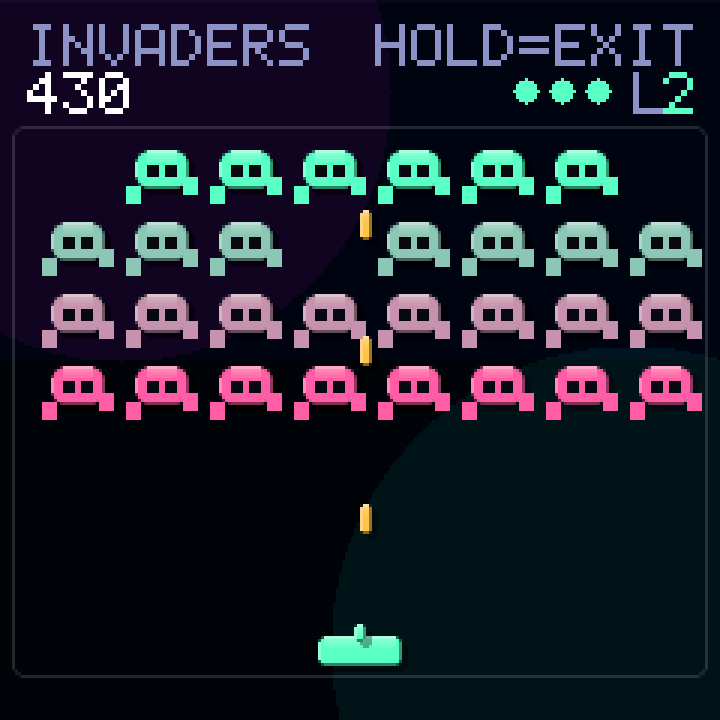
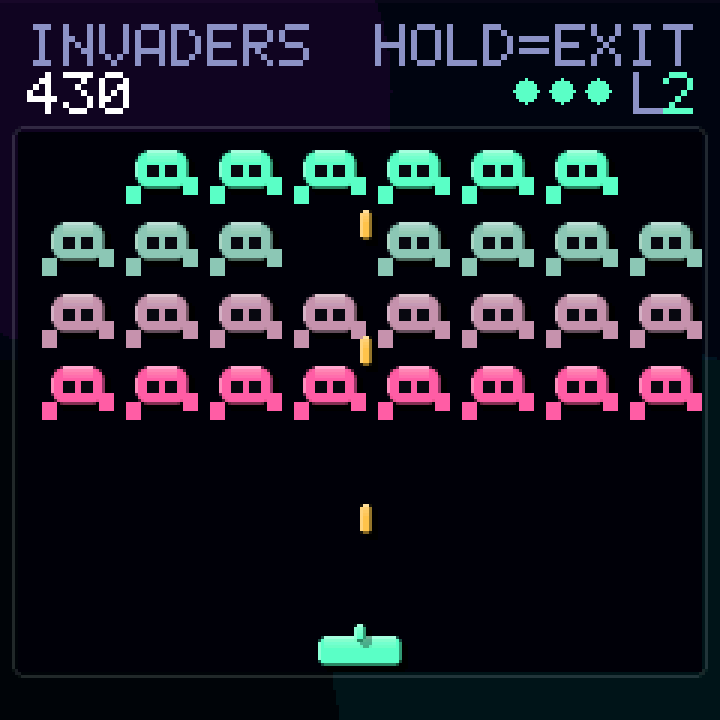
fix(N-02): playfields render flat
The ground is a gradient with two soft colour blobs behind it. That is right
for a dashboard and wrong behind a game: in Pong a blob edge crossed the court
and read as a tear in the image, and everywhere it did not tear it lowered
contrast on the things you are trying to track. Breakout and Invaders had no
field fill at all, so the raw ground showed through their entire playfield.

nexus_draw_field() paints it opaque - one helper, seven call sites. The
decoration keeps the ground, the cards, the menus and the game headers, and
stops at the field border.

Opaque rather than the band-level glow skip the plan suggests. That is
cheaper, and it was the first thing I tried: the fields are not the full width
of the panel, so the glow stops dead along the field's top edge and carries on
in the margin either side of it - a seam across the whole screen, one artifact
traded for a worse one.

So the frame cost claim in the ticket does not hold, and it is worth being
straight about: covering the ground costs an opaque fill where skipping it
would have saved a blended one. The five games that already had a translucent
fill get slightly cheaper (a blend becomes a store); Breakout and Invaders pay
about 40,000 opaque writes a frame, against the 57,600 the gradient already
costs every frame regardless. Nothing here is near the tick budget, but it is
an increase for two of the seven, not a reduction.

Tetris's draw_well() lost its last t-> use in the process, which would have
[…]

Changed region(s): [[0.0, 0.1833, 0.55, 0.5194], [0.7639, 0.4583, 0.9778, 0.5194]]

diff --git a/scripts/render_ui.py b/scripts/render_ui.py
@@ -361,6 +361,10 @@ class UI:
         self.cv.text(x + lw, y, num, BODY, self.t['accent'])
         return x
 
+    def field(self, x, y, w, h):
+        """nexus_draw_field(): flat and opaque, so no glow edge crosses it."""
+        self.cv.rect(x, y, w, h, self.t['track'], OPAQUE)
+
     def meter(self, x, y, w, h, pct, fill):
         r = h // 2
         self.cv.round_rect(x, y, w, h, r, self.t['track'], 190)
@@ -743,8 +747,7 @@ def tetris(cv, t):
     u.label(W - PAD - text_w('HOLD=EXIT', LABEL), 8, 'HOLD=EXIT')
 
     u.card(K['FRAME_X'], K['FRAME_Y'], K['FRAME_W'], K['FRAME_H'])
-    cv.rect(K['WELL_X'], K['WELL_Y'], 10 * K['CELL'], 20 * K['CELL'],
-            t['track'], 220)
+    u.field(K['WELL_X'], K['WELL_Y'], 10 * K['CELL'], 20 * K['CELL'])
 
     # a plausible stack plus a falling T
     stack = [
@@ -804,7 +807,7 @@ def snake(cv, t, body=None, food=(3, 12), score='120'):
 
     cv.round_frame(K['FRAME_X'], K['FRAME_Y'], K['FRAME_W'], K['FRAME_H'], 3,
                    t['border'], t['border_alpha'])
-    cv.rect(K['WELL_X'], K['WELL_Y'], K['WELL_W'], K['WELL_H'], t['track'], 120)
+    u.field(K['WELL_X'], K['WELL_Y'], K['WELL_W'], K['WELL_H'])
 
     for r, c in body:
         x = K['WELL_X'] + c * K['CELL']
@@ -845,6 +848,7 @@ def breakout(cv, t, ball=None, paddle=None, gone=None, score='340', lives=3):
     for i in range(lives):
         cv.disc(lx - 12 - i * 12, 30, 4, t['accent'])
 
+    u.field(K['FIELD_X'], K['FIELD_Y'], K['FIELD_W'], K['FIELD_H'])
     cv.round_frame(K['FIELD_X'] - 2, K['FIELD_Y'] - 2, K['FIELD_W'] + 4,
                    K['FIELD_H'] + 4, 3, t['border'], t['border_alpha'])
 
@@ -891,7 +895,7 @@ def pacman(cv, t, pac=(8, 6), pdir=1, ghosts=((4, 6), (3, 4), (6, 8)),
 
     cv.round_frame(K['FRAME_X'], K['FRAME_Y'], K['FRAME_W'], K['FRAME_H'], 3,
                    t['border'], t['border_alpha'])
-    cv.rect(K['WELL_X'], K['WELL_Y'], K['WELL_W'], K['WELL_H'], t['track'], 120)
+    u.field(K['WELL_X'], K['WELL_Y'], K['WELL_W'], K['WELL_H'])
 
     CELL = K['CELL']
     for r in range(K['ROWS']):
@@ -1003,7 +1007,7 @@ def jumper(cv, t, player=(7, 2), facing=1, taken=(), dead=(), score='700',
     for i in range(lives):
         cv.disc(lx - 12 - i * 12, 30, 4, t['error'])
 
-    cv.rect(0, VY, W, K['ROWS'] * TILE, t['track'], 130)
+    u.field(0, VY, W, K['ROWS'] * TILE)
     for r in range(K['ROWS']):
         y = VY + r * TILE
         for c in range(K['COLS']):
@@ -1054,6 +1058,7 @@ def invaders(cv, t, dead=((0, 0), (0, 7), (1, 3)), fx=None, fy=None,
     for i in range(lives):
         cv.disc(lx - 12 - i * 12, 30, 4, t['success'])
 
+    u.field(K['FIELD_X'], K['FIELD_Y'], K['FIELD_W'], K['FIELD_H'])
     cv.round_frame(K['FIELD_X'] - 2, K['FIELD_Y'] - 2, K['FIELD_W'] + 4,
                    K['FIELD_H'] + 4, 3, t['border'], t['border_alpha'])
 
@@ -1102,8 +1107,7 @@ def pong(cv, t, you=None, cpu=None, ball=None, sy=3, sc=2):
 
     cv.round_frame(K['FIELD_X'] - 2, K['FIELD_Y'] - 2, K['FIELD_W'] + 4,
                    K['FIELD_H'] + 4, 3, t['border'], t['border_alpha'])
-    cv.rect(K['FIELD_X'], K['FIELD_Y'], K['FIELD_W'], K['FIELD_H'],
-            t['track'], 120)
+    u.field(K['FIELD_X'], K['FIELD_Y'], K['FIELD_W'], K['FIELD_H'])
     y = K['FIELD_Y'] + 6
     while y < B - 4:
         cv.rect(W // 2 - 1, y, 3, 8, t['border'], 90)

diff --git a/tests/games/test_new_games.py b/tests/games/test_new_games.py
@@ -330,6 +330,38 @@ def main():
        'same for the paddle plane, which is also a point test')
     ok('TO_FIX(PAD_W + BALL_R - 1)' in p, 'and also derived')
 
+    print('\nEvery playfield is flat')
+    # The ground is a gradient with two soft colour blobs behind it, which is
+    # right for a dashboard and wrong behind a game: the blob edge is a
+    # smooth curve crossing the play area, and on a 240px panel that reads as
+    # a tear in the image. Breakout and Invaders had no fill at all, so the
+    # raw ground showed through the whole field.
+    ALL = (('tetris', 'src/games/tetris/tetris.c'),
+           ('snake', 'src/games/snake/snake.c'),
+           ('breakout', 'src/games/breakout/breakout.c'),
+           ('pacman', 'src/games/pacman/pacman.c'),
+           ('jumper', 'src/games/jumper/jumper.c'),
+           ('invaders', 'src/games/invaders/invaders.c'),
+           ('pong', 'src/games/pong/pong.c'))
+    for name, f in ALL:
+        g = src(f)
+        ok('nexus_draw_field(' in g,
+           '%-9s fills its field through the shared helper' % name)
+        # Not "no translucent track anywhere" - Tetris tints its
+        # next-piece box and Pac-Man cuts its mouth with the same colour.
+        # What must be gone is a translucent fill at the FIELD's own rect.
+        ok(not re.search(r'gfx_rect\((WELL|FIELD|VIEW)_X[^;]*, \d+\);', g),
+           '%-9s has no translucent fill left at its field rect' % name)
+
+    w = src('src/ui/widgets.c')
+    ok('gfx_rect(x, y, w, h, nexus_theme()->track, GFX_OPAQUE)' in w,
+       'and the helper is opaque, so no ground reaches through it')
+
+    ru = src('scripts/render_ui.py')
+    ok(ru.count('u.field(') == len(ALL),
+       'the renderer fills all %d, so the doc shots show what ships'
+       % len(ALL))
+
     print('\nThe shared 3D vocabulary is actually used')
     w = src('src/ui/widgets.c')
     ok('void nexus_draw_block' in w and 'void nexus_draw_orb' in w,

diff --git a/include/nexus/widgets.h b/include/nexus/widgets.h
@@ -65,6 +65,21 @@ void nexus_draw_label(int x, int y, const char *text);
  */
 int nexus_draw_level(int right, int y, uint8_t level);
 
+/**
+ * A playfield's ground: flat and opaque, deliberately not frosted.
+ *
+ * Everything else on this device is a translucent pane over a gradient with
+ * two soft colour blobs behind it, and that is right for a dashboard - it is
+ * wrong behind a game. The blob edge is a smooth curve crossing the play
+ * area, which on a 240px panel reads as a tear in the image rather than as
+ * decoration, and everywhere it does not tear it just lowers contrast on the
+ * things you are trying to track.
+ *
+ * The decoration stays on the ground, the cards, the menus and the game
+ * headers. It stops at the field border.
+ */
+void nexus_draw_field(int x, int y, int w, int h);
+
 /** Horizontal capsule meter, 0-100, with a rounded cap at low values. */
 void nexus_draw_meter(int x, int y, int w, int h, uint8_t pct, gfx_color fill);
 

diff --git a/src/ui/widgets.c b/src/ui/widgets.c
@@ -130,6 +130,21 @@ int nexus_draw_level(int right, int y, uint8_t level)
 	return x;
 }
 
+void nexus_draw_field(int x, int y, int w, int h)
+{
+	/*
+	 * Opaque rather than a band-level skip of the glow.
+	 *
+	 * Skipping the blobs for bands inside the field is cheaper and was the
+	 * obvious approach, but the fields are not the full width of the
+	 * panel: the glow would then stop dead along the field's top edge and
+	 * carry on in the few pixels of margin either side of it, which is a
+	 * seam across the whole screen - trading one artifact for a worse one.
+	 * Covering the ground has no edge to see.
+	 */
+	gfx_rect(x, y, w, h, nexus_theme()->track, GFX_OPAQUE);
+}
+
 void nexus_draw_meter(int x, int y, int w, int h, uint8_t pct, gfx_color fill)
 {
 	const struct nexus_theme *t = nexus_theme();

diff --git a/src/games/tetris/tetris.c b/src/games/tetris/tetris.c
@@ -117,10 +117,8 @@ static void draw_block(int x, int y, int size, uint8_t piece)
 
 static void draw_well(void)
 {
-	const struct nexus_theme *t = nexus_theme();
-
 	nexus_draw_card(FRAME_X, FRAME_Y, FRAME_W, FRAME_H);
-	gfx_rect(WELL_X, WELL_Y, WELL_W, WELL_H, t->track, 220);
+	nexus_draw_field(WELL_X, WELL_Y, WELL_W, WELL_H);
 
 	for (int row = 0; row < TETRIS_VISIBLE_ROWS; row++) {
 		int y = WELL_Y + row * CELL;

diff --git a/src/games/pong/pong.c b/src/games/pong/pong.c
@@ -340,7 +340,7 @@ static void pong_draw(void)
 
 	gfx_round_frame(FIELD_X - 2, FIELD_Y - 2, FIELD_W + 4, FIELD_H + 4, 3,
 			t->border, t->border_alpha);
-	gfx_rect(FIELD_X, FIELD_Y, FIELD_W, FIELD_H, t->track, 120);
+	nexus_draw_field(FIELD_X, FIELD_Y, FIELD_W, FIELD_H);
 
 	/* Dashed centre line, behind everything. */
 	for (int y = FIELD_Y + 6; y < FIELD_B - 4; y += 14) {

diff --git a/src/games/snake/snake.c b/src/games/snake/snake.c
@@ -353,7 +353,7 @@ static void snake_draw(void)
 	if (gfx_hits(FRAME_Y, FRAME_H)) {
 		gfx_round_frame(FRAME_X, FRAME_Y, FRAME_W, FRAME_H, 3,
 				t->border, t->border_alpha);
-		gfx_rect(WELL_X, WELL_Y, WELL_W, WELL_H, t->track, 120);
+		nexus_draw_field(WELL_X, WELL_Y, WELL_W, WELL_H);
 
 		for (int r = 0; r < ROWS; r++) {
 			for (int c = 0; c < COLS; c++) {

diff --git a/src/games/pacman/pacman.c b/src/games/pacman/pacman.c
@@ -570,7 +570,7 @@ static void pacman_draw(void)
 
 	gfx_round_frame(FRAME_X, FRAME_Y, FRAME_W, FRAME_H, 3, t->border,
 			t->border_alpha);
-	gfx_rect(WELL_X, WELL_Y, WELL_W, WELL_H, t->track, 120);
+	nexus_draw_field(WELL_X, WELL_Y, WELL_W, WELL_H);
 
 	for (int r = 0; r < ROWS; r++) {
 		int y = WELL_Y + r * CELL;

diff --git a/src/games/jumper/jumper.c b/src/games/jumper/jumper.c
@@ -572,7 +572,7 @@ static void jumper_draw(void)
 		return;
 	}
 
-	gfx_rect(VIEW_X, VIEW_Y, VIEW_W, VIEW_H, t->track, 130);
+	nexus_draw_field(VIEW_X, VIEW_Y, VIEW_W, VIEW_H);
 
 	for (int r = 0; r < ROWS; r++) {
 		int y = VIEW_Y + r * TILE;

diff --git a/src/games/breakout/breakout.c b/src/games/breakout/breakout.c
@@ -381,6 +381,7 @@ static void breakout_draw(void)
 		return;
 	}
 
+	nexus_draw_field(FIELD_X, FIELD_Y, FIELD_W, FIELD_H);
 	gfx_round_frame(FIELD_X - 2, FIELD_Y - 2, FIELD_W + 4, FIELD_H + 4, 3,
 			t->border, t->border_alpha);
 

diff --git a/src/games/invaders/invaders.c b/src/games/invaders/invaders.c
@@ -464,6 +464,7 @@ static void invaders_draw(void)
 		return;
 	}
 
+	nexus_draw_field(FIELD_X, FIELD_Y, FIELD_W, FIELD_H);
 	gfx_round_frame(FIELD_X - 2, FIELD_Y - 2, FIELD_W + 4, FIELD_H + 4, 3,
 			t->border, t->border_alpha);
 

diff --git a/docs/games.md b/docs/games.md
@@ -231,6 +231,31 @@ speed-step in milliseconds long before there was a level, so its badge is
 simply that step given a number. Two curves stacked on one game is how a
 difficulty setting stops meaning anything.
 
+### Playfields are flat
+
+The ground is a gradient with two soft colour blobs behind it. That is right
+for a dashboard and wrong behind a game: the blob edge is a smooth curve
+crossing the play area, which on a 240px panel reads as a tear in the image
+rather than as decoration, and everywhere it does not tear it lowers contrast
+on whatever you are trying to track.
+
+`nexus_draw_field()` paints the playfield opaque, so the decoration stops at
+the field border and keeps the header, the cards and the menus. Breakout and
+Invaders had no fill at all before this -- the raw ground showed through their
+entire field.
+
+Opaque rather than skipping the blobs for the bands inside the field, which is
+cheaper and was the obvious approach: the fields are not the full width of the
+panel, so the glow would stop dead along the field's top edge and carry on in
+the few pixels of margin either side of it. That is a seam across the whole
+screen -- one artifact traded for a worse one.
+
+It is not free. Covering the ground costs an opaque fill where skipping it
+would have saved a blended one: the five games that already had a translucent
+fill get slightly cheaper, and the two that had none pay about 40,000 opaque
+writes a frame against the 57,600 the gradient already costs. That is the
+price of not having a seam.
+
 ### They all look like one product
 
 Anything solid is drawn through `nexus_draw_block()`, anything round through
